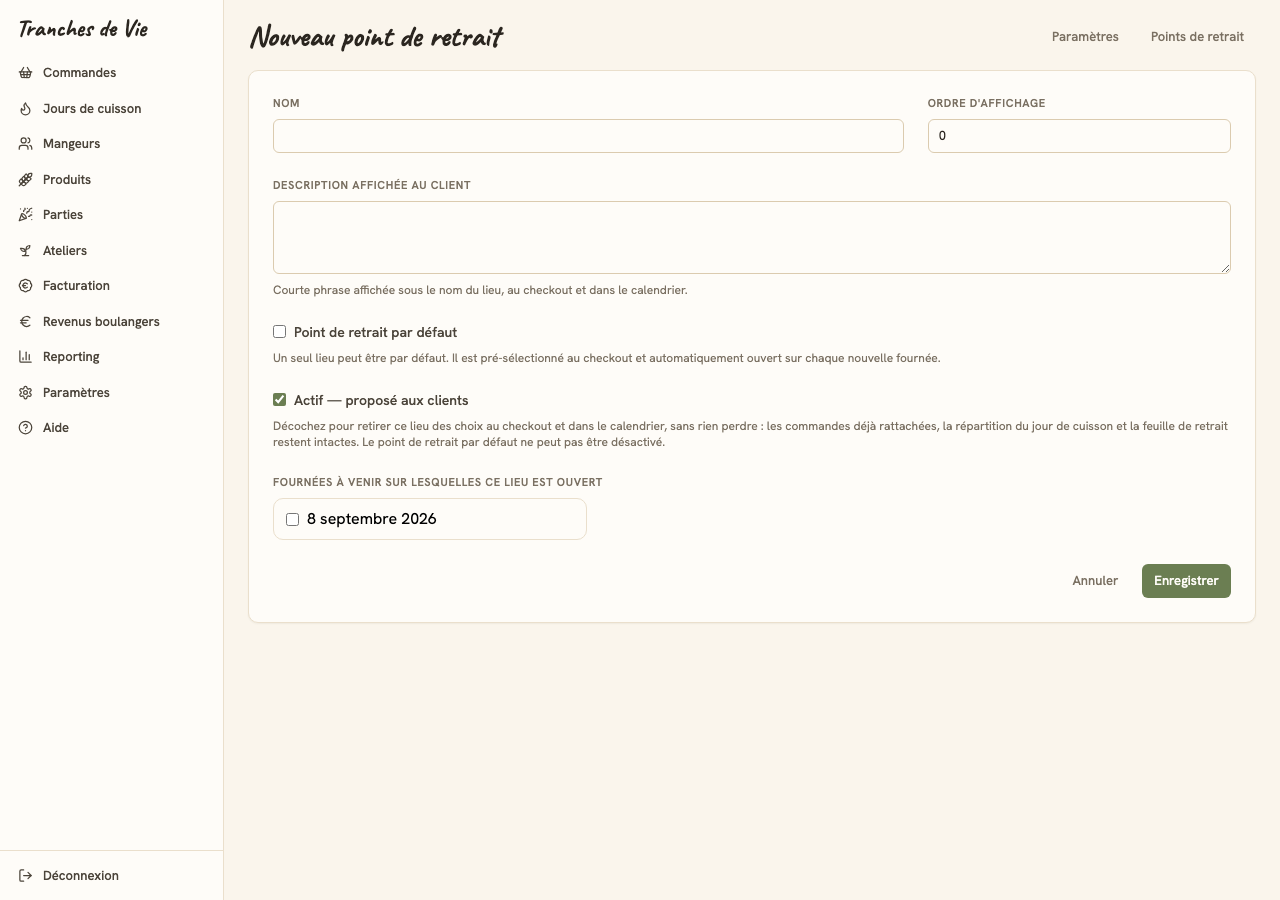
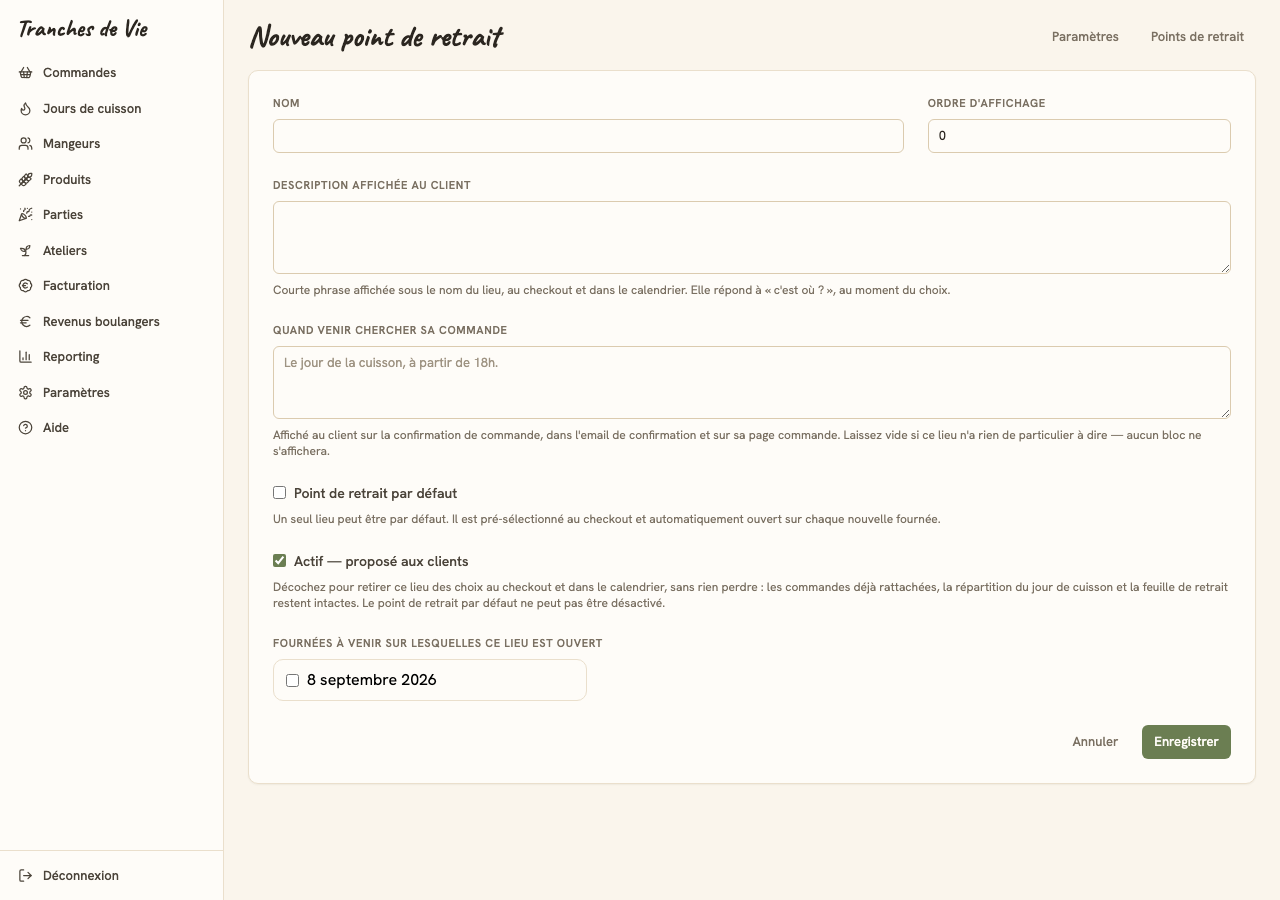
Instructions de retrait par point de retrait (#252)
Les clients se présentaient trop tôt : nulle part le tunnel ne disait quand
venir chercher son pain. L'information dépend du lieu — 18h aux 4 Sources, les
heures du marché à Anhée — donc elle devient un champ du point de retrait,
écrit par les boulangers.

Nouveau champ texte pickup_instructions, distinct de description : celle-ci
répond à « c'est où ? » au moment du choix, celui-là à « quand je viens ? »
une fois la commande passée. Affiché sur la confirmation, dans l'e-mail et sur
la page commande ; vide, il n'affiche rien du tout.

Le bloc « Retrait » de l'e-mail annonçait l'épicerie des 4 Sources à tout le
monde, y compris à qui avait choisi le marché. Il nomme désormais le lieu
réellement choisi. L'adresse postale reste dans le pied de page du gabarit
e-mail.

diff --git a/spec/requests/pickup_instructions_spec.rb b/spec/requests/pickup_instructions_spec.rb
@@ -1,0 +1,91 @@
+require "rails_helper"
+
+# Les instructions de retrait (#252) suivent la commande sur les trois surfaces
+# vues par le client : la confirmation, l'e-mail de confirmation, et la page
+# commande. Règle commune : vides, elles n'affichent NI bloc NI libellé orphelin.
+RSpec.describe "Instructions de retrait", type: :request do
+  let(:instructions) { "Le jour de la cuisson, à partir de 18h." }
+  let!(:default_location) { create(:pickup_location, :default, pickup_instructions: instructions) }
+  let!(:anhee) { create(:pickup_location, name: "Marché d'Anhée", description: "Sur notre étal.") }
+
+  let(:bake_day) { create(:bake_day, :can_order) }
+  let(:customer) { create(:customer, first_name: "Léa", email: "lea@example.com") }
+
+  # Les deux lieux doivent être ouverts sur la fournée, sinon la commande est
+  # refusée par la validation de disponibilité.
+  before do
+    bake_day.pickup_location_ids = [ default_location.id, anhee.id ]
+    bake_day.save!
+  end
+
+  let(:order) { create(:order, :with_items, customer: customer, bake_day: bake_day, pickup_location: default_location) }
+  let(:order_without_instructions) { create(:order, :with_items, customer: customer, bake_day: bake_day, pickup_location: anhee) }
+
+  describe "l'écran de confirmation" do
+    it "affiche le nom du lieu et ses instructions" do
+      get "/checkout/success", params: { order_token: order.public_token }
+
+      expect(response).to have_http_status(:ok)
+      expect(response.body).to include(CGI.escapeHTML(default_location.name))
+      expect(response.body).to include(CGI.escapeHTML(instructions))
+    end
+
+    it "n'affiche ni bloc ni libellé quand les instructions sont vides" do
+      get "/checkout/success", params: { order_token: order_without_instructions.public_token }
+
+      expect(response).to have_http_status(:ok)
+      expect(response.body).to include(CGI.escapeHTML(anhee.name))
+      expect(response.body).not_to include(CGI.escapeHTML(instructions))
+    end
+  end
+
+  describe "la page commande du client" do
+    it "affiche les instructions sous la description" do
+      get order_path(order.public_token)
+
+      expect(response).to have_http_status(:ok)
+      expect(response.body).to include(CGI.escapeHTML(default_location.name))
+      expect(response.body).to include(CGI.escapeHTML(instructions))
+    end
+
+    it "n'affiche rien de plus quand les instructions sont vides" do
+      get order_path(order_without_instructions.public_token)
+
+      expect(response).to have_http_status(:ok)
+      expect(response.body).to include(CGI.escapeHTML(anhee.name))
+      expect(response.body).to include("Sur notre étal.")
+      expect(response.body).not_to include(CGI.escapeHTML(instructions))
+    end
+  end
+
+  describe "l'admin" do
+    before do
+      ENV["ADMIN_PASSWORD"] = "test-admin-pw"
+      post admin_login_path, params: { password: "test-admin-pw" }
+    end
+
+    it "rend le champ sur l'écran d'édition" do
+      get edit_admin_pickup_location_path(anhee)
+
+      expect(response).to have_http_status(:ok)
+      expect(response.body).to include("pickup_location[pickup_instructions]")
+      expect(response.body).to include("Quand venir chercher sa commande")
+    end
+
+    it "persiste la valeur soumise" do
+      patch admin_pickup_location_path(anhee), params: {
+        pickup_location: { pickup_instructions: "Le samedi, de 9h à 13h." }
+      }
+
+      expect(anhee.reload.pickup_instructions).to eq("Le samedi, de 9h à 13h.")
+    end
+
+    it "laisse le champ vide quand rien n'est saisi" do
+      patch admin_pickup_location_path(anhee), params: {
+        pickup_location: { pickup_instructions: "" }
+      }
+
+      expect(anhee.reload.pickup_instructions).to be_blank
+    end
+  end
+end

diff --git a/spec/mailers/order_mailer_spec.rb b/spec/mailers/order_mailer_spec.rb
@@ -39,5 +39,50 @@ RSpec.describe OrderMailer, type: :mailer do
       expect { mail.deliver_now }.to change(EmailMessage, :count).by(1)
       expect(EmailMessage.last).to have_attributes(kind: "confirmation", order_id: order.id, customer_id: customer.id)
     end
+
+    # Où et quand venir (#252) — dans les DEUX parties, HTML et texte.
+    describe 'le bloc de retrait' do
+      let(:instructions) { "Le jour de la cuisson, à partir de 18h." }
+
+      # Le lieu doit être ouvert sur la fournée, sinon la commande est refusée.
+      def attach(location)
+        bake_day.pickup_location_ids = (bake_day.pickup_location_ids + [ location.id ]).uniq
+        bake_day.save!
+        order.update!(pickup_location: location)
+      end
+
+      it "nomme le lieu et reprend ses instructions" do
+        location = create(:pickup_location, name: "Marché d'Anhée", pickup_instructions: instructions)
+        attach(location)
+
+        expect(mail.html_part.body.decoded).to include("Marché d'Anhée").or include(CGI.escapeHTML("Marché d'Anhée"))
+        expect(mail.html_part.body.decoded).to include(instructions)
+        expect(mail.text_part.body.decoded).to include("Marché d'Anhée")
+        expect(mail.text_part.body.decoded).to include(instructions)
+      end
+
+      it "n'affiche aucune instruction quand le lieu n'en porte pas" do
+        location = create(:pickup_location, name: "Marché de Dinant", pickup_instructions: nil)
+        attach(location)
+
+        expect(mail.text_part.body.decoded).to include("Marché de Dinant")
+        expect(mail.text_part.body.decoded).not_to include(instructions)
+        expect(mail.html_part.body.decoded).not_to include(instructions)
+      end
+
+      it "n'annonce plus l'adresse de l'épicerie à qui a choisi le marché" do
+        location = create(:pickup_location, name: "Marché d'Anhée", pickup_instructions: instructions)
+        attach(location)
+
+        expect(mail.text_part.body.decoded).not_to include("Fonds d'Ahinvaux")
+      end
+
+      it "garde une phrase de repli quand le lieu n'a pas d'instructions" do
+        location = create(:pickup_location, name: "Marché de Namur", pickup_instructions: nil)
+        attach(location)
+
+        expect(mail.text_part.body.decoded).to include("Ta commande t'attendra le jour de cuisson")
+      end
+    end
   end
 end

diff --git a/spec/models/pickup_location_instructions_spec.rb b/spec/models/pickup_location_instructions_spec.rb
@@ -1,0 +1,36 @@
+require "rails_helper"
+
+# « Quand venir chercher sa commande » (#252) : texte libre, facultatif, distinct
+# de `description`. Aucune validation — les boulangers écrivent ce qu'ils veulent,
+# ou rien.
+RSpec.describe PickupLocation, "#pickup_instructions", type: :model do
+  it "naît nil : la migration ne pré-remplit rien" do
+    location = create(:pickup_location)
+
+    expect(location.pickup_instructions).to be_nil
+  end
+
+  it "accepte nil sans invalider l'enregistrement" do
+    location = create(:pickup_location, pickup_instructions: nil)
+
+    expect(location).to be_valid
+  end
+
+  it "accepte une chaîne longue et multiligne" do
+    texte = "Le jour de la cuisson, à partir de 18h.\n" + ("Détail supplémentaire. " * 100)
+    location = create(:pickup_location, pickup_instructions: texte)
+
+    expect(location.reload.pickup_instructions).to eq(texte)
+  end
+
+  it "reste distinct de la description" do
+    location = create(
+      :pickup_location,
+      description: "Retrait sur notre étal, les jours de marché à Anhée.",
+      pickup_instructions: "Le samedi, de 9h à 13h."
+    )
+
+    expect(location.description).to eq("Retrait sur notre étal, les jours de marché à Anhée.")
+    expect(location.pickup_instructions).to eq("Le samedi, de 9h à 13h.")
+  end
+end

diff --git a/app/models/pickup_location.rb b/app/models/pickup_location.rb
@@ -4,6 +4,13 @@
 # de lieux : « Les 4 Sources » (le lieu par défaut) est ouvert partout, tandis
 # que « Marché d'Anhée » n'existe que les jours de marché.
 #
+# Deux textes, deux questions distinctes (#252) : `description` répond à
+# « c'est où ? » et s'affiche au moment du choix (checkout, calendrier) ;
+# `pickup_instructions` répond à « quand est-ce que je viens ? » et s'affiche
+# une fois la commande passée (confirmation, e-mail, page commande). Les
+# horaires dépendent du lieu — 18h aux 4 Sources, les heures du marché à
+# Anhée — donc c'est un texte libre saisi par les boulangers, jamais calculé.
+#
 # Suppression = soft delete (comme MoldType) : un lieu retiré disparaît des
 # sélecteurs client mais reste lisible sur les commandes passées qui le
 # référencent. Aucun `default_scope` n'est posé, c'est ce qui rend cette lecture

diff --git a/db/schema.rb b/db/schema.rb
@@ -10,7 +10,7 @@
 #
 # It's strongly recommended that you check this file into your version control system.
 
-ActiveRecord::Schema[8.0].define(version: 2026_08_26_080000) do
+ActiveRecord::Schema[8.0].define(version: 2026_09_04_013706) do
   # These are extensions that must be enabled in order to support this database
   enable_extension "pg_catalog.plpgsql"
 
@@ -419,6 +419,7 @@ ActiveRecord::Schema[8.0].define(version: 2026_08_26_080000) do
     t.datetime "created_at", null: false
     t.datetime "updated_at", null: false
     t.boolean "active", default: true, null: false
+    t.text "pickup_instructions"
     t.index ["default"], name: "index_pickup_locations_on_single_default", unique: true, where: "((\"default\" = true) AND (deleted_at IS NULL))"
     t.index ["deleted_at"], name: "index_pickup_locations_on_deleted_at"
   end

diff --git a/app/mailers/order_mailer.rb b/app/mailers/order_mailer.rb
@@ -5,6 +5,9 @@ class OrderMailer < ApplicationMailer
     @order = order
     @customer = order.customer
     @items = order.order_items.includes(product_variant: :product)
+    # Où et quand venir (#252). Toujours présent : `pickup_location_id` est
+    # NOT NULL et l'association est requise — d'où l'absence de garde côté vue.
+    @pickup_location = order.pickup_location
     @order_url = order_url(@order.public_token)
     @unsubscribe_url = email_preferences_url(token: @customer.signed_id(purpose: :email_unsubscribe))
 

diff --git a/db/migrate/20260904013706_add_pickup_instructions_to_pickup_locations.rb b/db/migrate/20260904013706_add_pickup_instructions_to_pickup_locations.rb
@@ -1,0 +1,10 @@
+# frozen_string_literal: true
+
+# « Quand venir chercher sa commande » (#252) — distinct de `description`, qui
+# répond à « c'est où ? » au moment du choix. Naît NULL partout : la phrase est
+# propre à chaque lieu, ce sont les boulangers qui l'écrivent.
+class AddPickupInstructionsToPickupLocations < ActiveRecord::Migration[8.0]
+  def change
+    add_column :pickup_locations, :pickup_instructions, :text
+  end
+end

diff --git a/app/controllers/admin/pickup_locations_controller.rb b/app/controllers/admin/pickup_locations_controller.rb
@@ -56,6 +56,6 @@ class Admin::PickupLocationsController < Admin::BaseController
   end
 
   def pickup_location_params
-    params.require(:pickup_location).permit(:name, :description, :default, :active, :position, bake_day_ids: [])
+    params.require(:pickup_location).permit(:name, :description, :pickup_instructions, :default, :active, :position, bake_day_ids: [])
   end
 end

diff --git a/app/docs/aide/parametres.md b/app/docs/aide/parametres.md
@@ -25,6 +25,21 @@ rarement, mais ce sont eux qui font tourner le reste correctement.
 | **Artisans** | Les boulangers et leurs **parts de revenu**. |
 | **Partenariats** | Les regroupements de boulangers qui partagent leur revenu (voir [Revenus boulangers](revenus-boulangers)). |
 
+## Points de retrait : deux textes, deux questions
+
+Un point de retrait porte **deux champs de texte**, et ils ne racontent pas la même chose. C'est la confusion la plus facile à faire, alors autant la lever tout de suite.
+
+| Champ | Répond à | Vu par le client |
+| --- | --- | --- |
+| **Description affichée au client** | « C'est où ? » | Au moment du **choix** : sur le checkout et dans le calendrier, sous le nom du lieu. |
+| **Quand venir chercher sa commande** | « Quand est-ce que je viens ? » | **Après** la commande : sur l'écran de confirmation, dans l'email de confirmation et sur la page de sa commande. |
+
+Le second champ existe parce que les horaires dépendent du lieu : aux 4 Sources on retire le jour de la cuisson à partir de 18h, au Marché d'Anhée ce sont les heures du marché. Écris la phrase que **tu** veux voir — rien n'est calculé automatiquement.
+
+Laissé vide, il n'affiche rien du tout : ni bloc, ni titre orphelin. Le client voit alors seulement le nom du lieu et la phrase générique « Ta commande t'attendra le jour de cuisson indiqué ci-dessus ».
+
+> **À faire une fois :** ce champ est **vide partout** au départ. Tant qu'il n'est pas rempli pour « Les 4 Sources », l'email de confirmation ne rappelle plus l'adresse de l'épicerie — c'est là qu'il faut la remettre, avec l'heure. Par exemple : « Épicerie aux 4 Sources — Fonds d'Ahinvaux 1, 5530 Yvoir. Le jour de la cuisson, à partir de 18h. »
+
 ## Prudence
 
 Ces réglages impactent le calcul des capacités (four, pétrin, moules) et la
